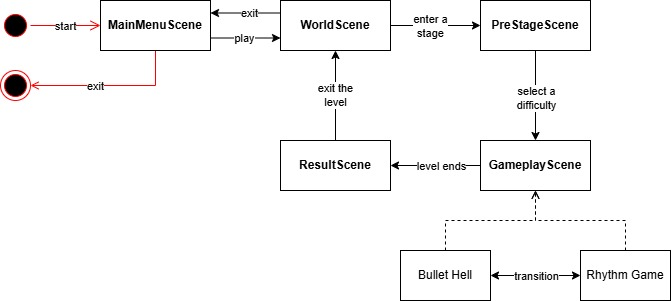
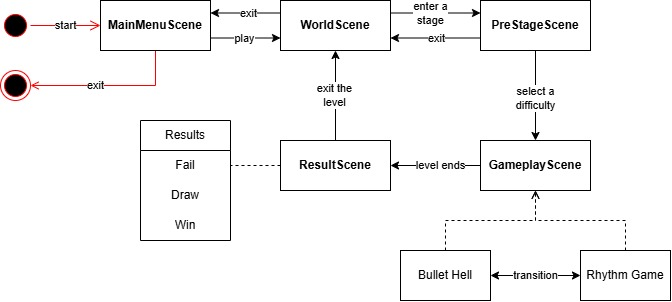
feat(proposal) - add engine diagrams and add diagram section

diff --git a/papers/proposal/sections/design.tex b/papers/proposal/sections/design.tex
@@ -83,4 +83,83 @@ Finally, the cutscene could be added as a video format to be rendered in an inst
 \label{subsec:constraints-considered}
 
 \subsection{Diagrams}
-\label{subsec:Diagrams}
+\label{subsec:diagrams}
+
+\vspace{0.5cm}
+
+\begin{figure}[h]
+    \centering
+    \includegraphics[width=\columnwidth, keepaspectratio]{images/taskmanager}
+    \caption{A diagram showing how task manager works}
+    \label{fig:taskmanager}
+\end{figure}
+
+\vspace{0.5cm}
+
+Describe how task manager works here.
+
+\vspace{0.5cm}
+
+\begin{figure}[h]
+    \centering
+    \includegraphics[width=\columnwidth, keepaspectratio]{images/scenemanager}
+    \caption{A diagram showing how scene manager works}
+    \label{fig:scenemanager}
+\end{figure}
+
+\vspace{0.5cm}
+
+Describe how scene manager works here.
+
+\vspace{0.5cm}
+
+\begin{figure}[h]
+    \centering
+    \includegraphics[width=\columnwidth, keepaspectratio]{images/scenemanager2}
+    \caption{A diagram showing how scene manager transfers data from old scene to new scene}
+    \label{fig:scenemanager2}
+\end{figure}
+
+\vspace{0.5cm}
+
+Describe how scene manager transfers data here.
+
+\vspace{0.5cm}
+
+\begin{figure}[h]
+    \centering
+    \includegraphics[width=\columnwidth, keepaspectratio]{images/gameflow}
+    \caption{A diagram showing scene flow of the game prototype}
+    \label{fig:gameflow}
+\end{figure}
+
+\vspace{0.5cm}
+
+Figure \ref{fig:gameflow} shows how the scenes in our game should flow.
+The game starts from the main menu scene where the player can choose to enter the game or exit.
+After the player chooses to enter the game, the game's world scene will be loaded.
+The world is a 2D side-scrolling scene where the player can explore and choose levels to play.
+There will be objects across the world which act as stages that the player can interact with to 
+enter the level.
+When the player interacts with a stage object, the game will transition to pre-stage scene, where 
+they can select which instrument to use in the level.
+Each instrument represents a different difficulty level.
+The player can choose to start the level with the selected instrument or return to the world.
+Once the player starts the level, the game will transition to the main gameplay scene.
+The gameplay scene consists of both bullet hell and rhythm game phases.
+In this scene, as the level begins, the player will start with bullet hell phase.
+The player must avoid incoming obstacles from the enemy and survive throughout the phase.
+Each hit taken will reduce the player's health.
+If the player's health reaches zero at any point, the gameplay will end, failing the level.
+After surviving the for a certain amount of time, the game will transition to rhythm game phase.
+In this phase, the player must hit the notes in time with the music to attack the enemy.
+A gauge is displayed at the top of the screen to show the player's progress in defeating the enemy.
+Each successful note hit will slightly fill the gauge, while missed notes will deplete it.
+The player must fill the gauge above a certain threshold to defeat the enemy and complete the level.
+Then, the game will transition back to bullet hell phase again.
+This cycle continues until the song ends or the player is defeated first.
+If the player successfully fills the gauge above the threshold by the end of the song, the player wins.
+Otherwise, it is considered a draw.
+After the gameplay ends, regardless if the player wins, loses or draws, the game will transition to results 
+scene, displaying the player's performance statistics.
+Then, the player will return to the world scene to continue exploring or choose another level.
